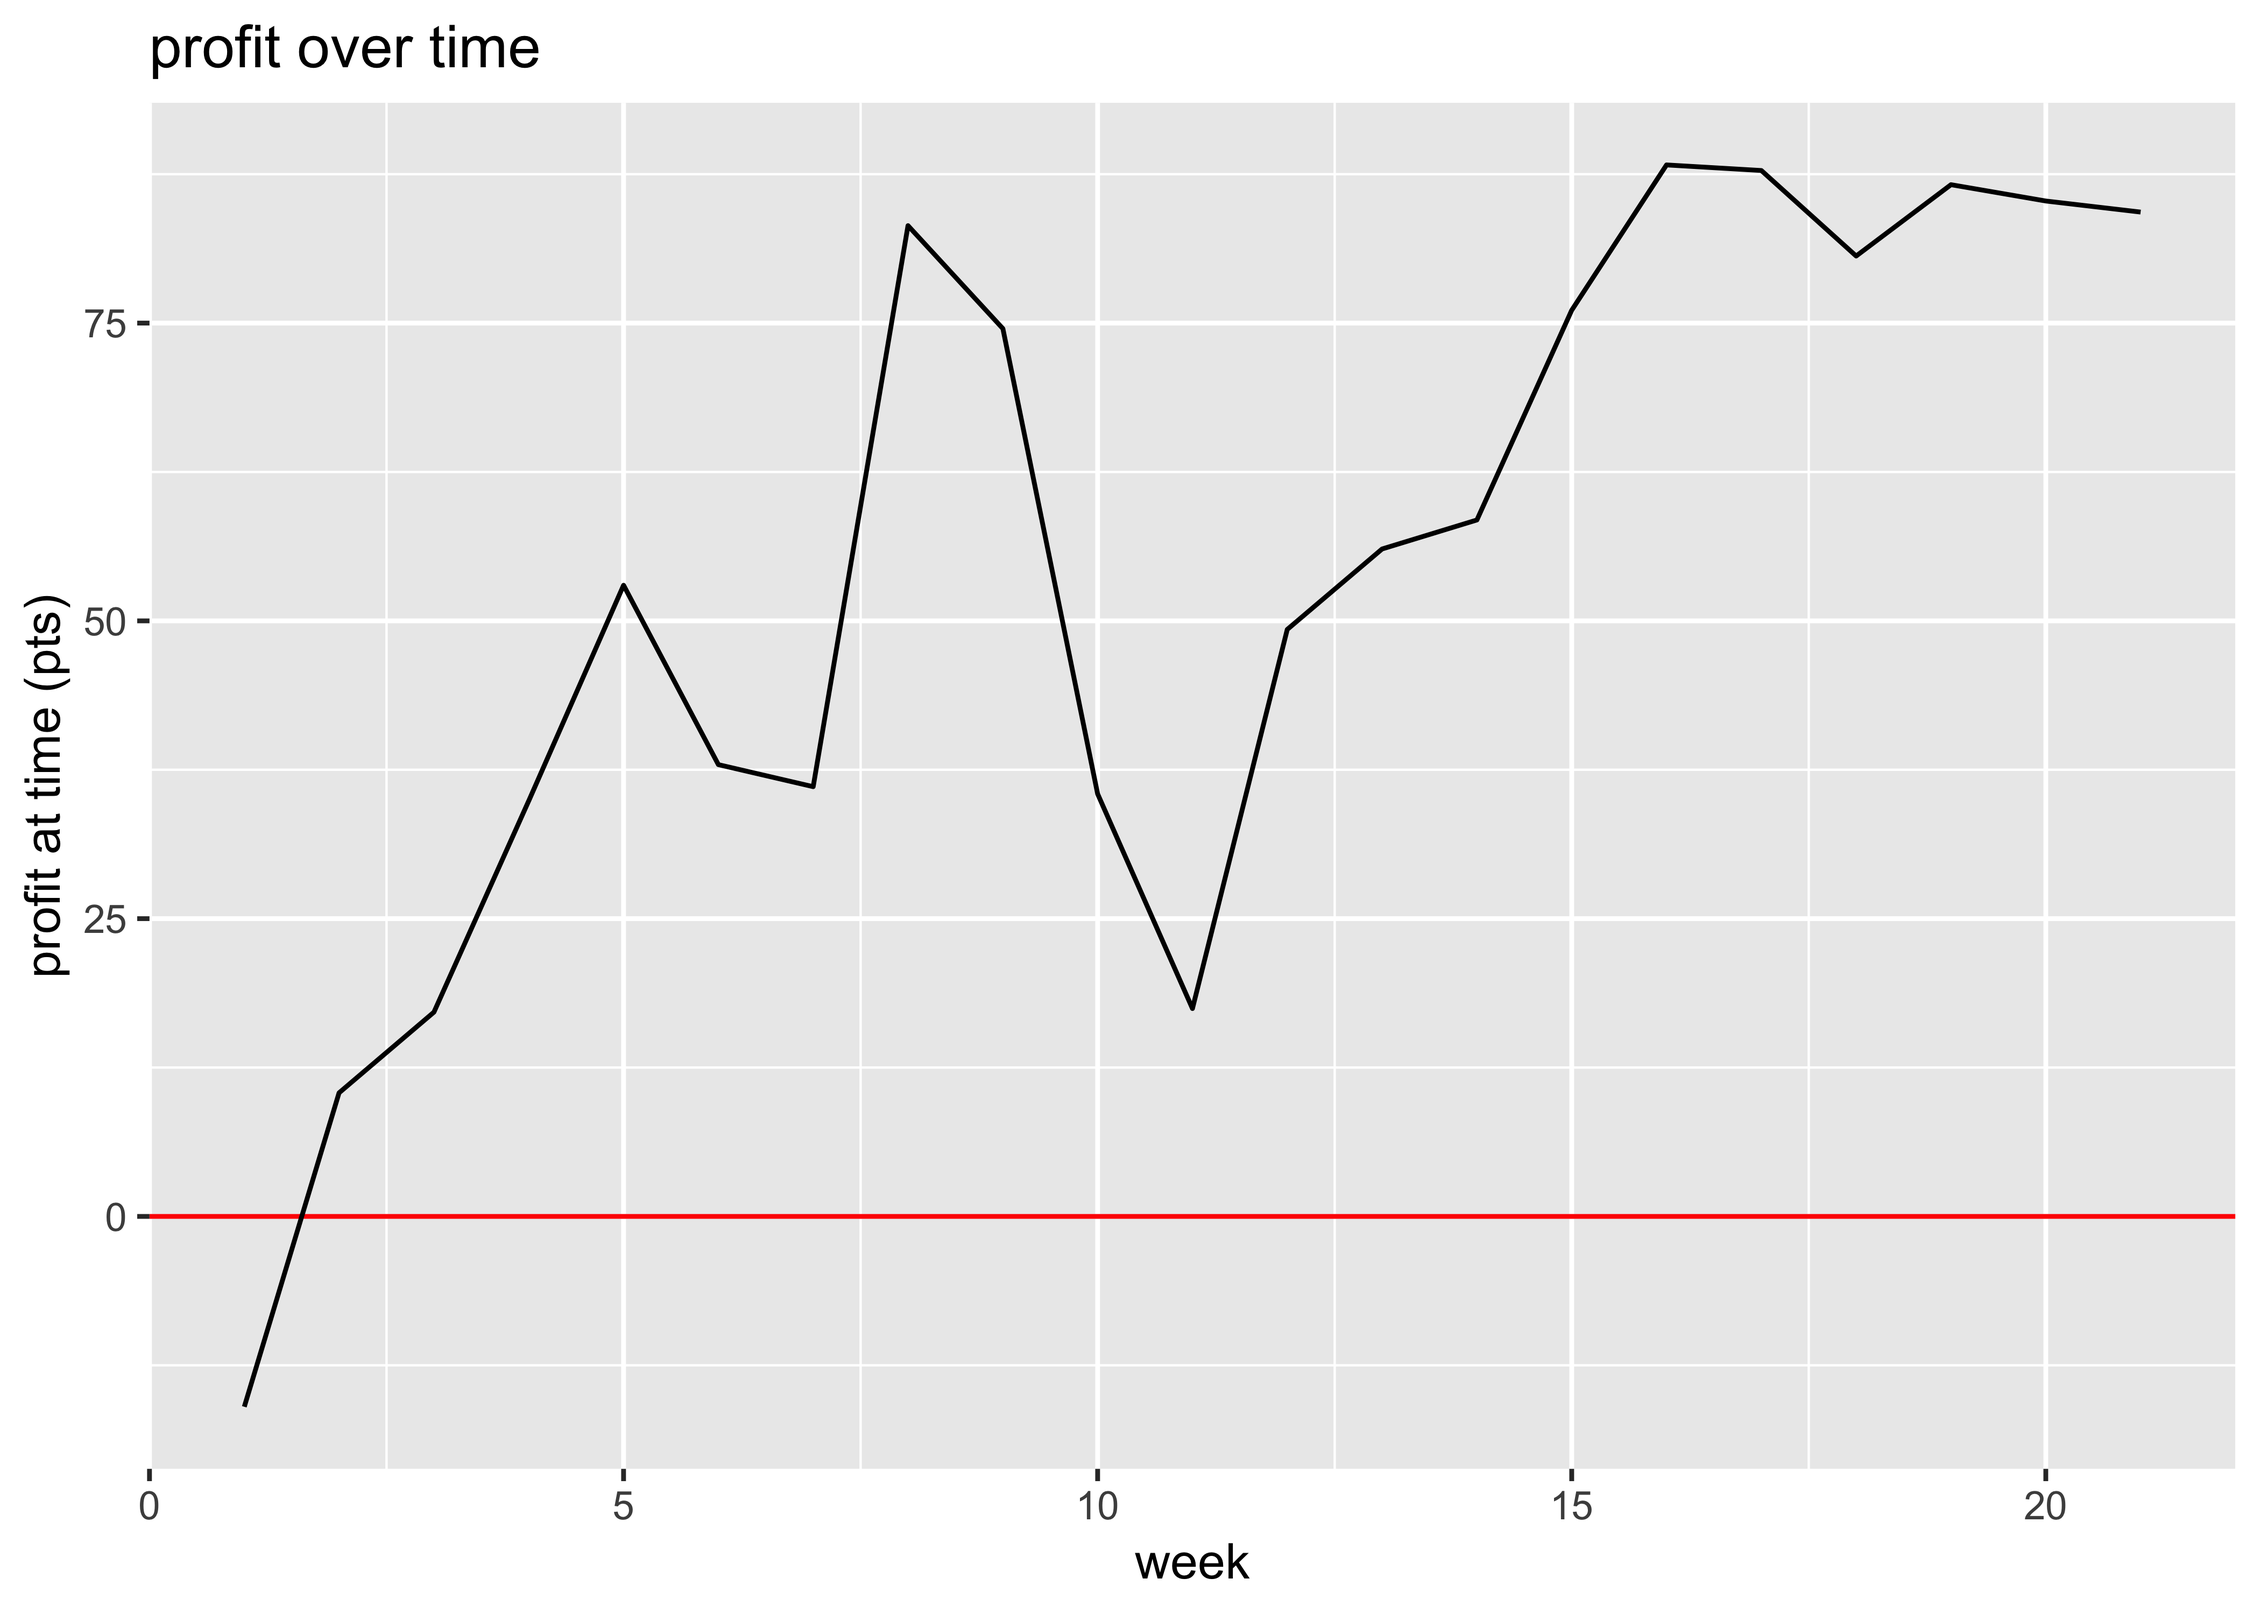
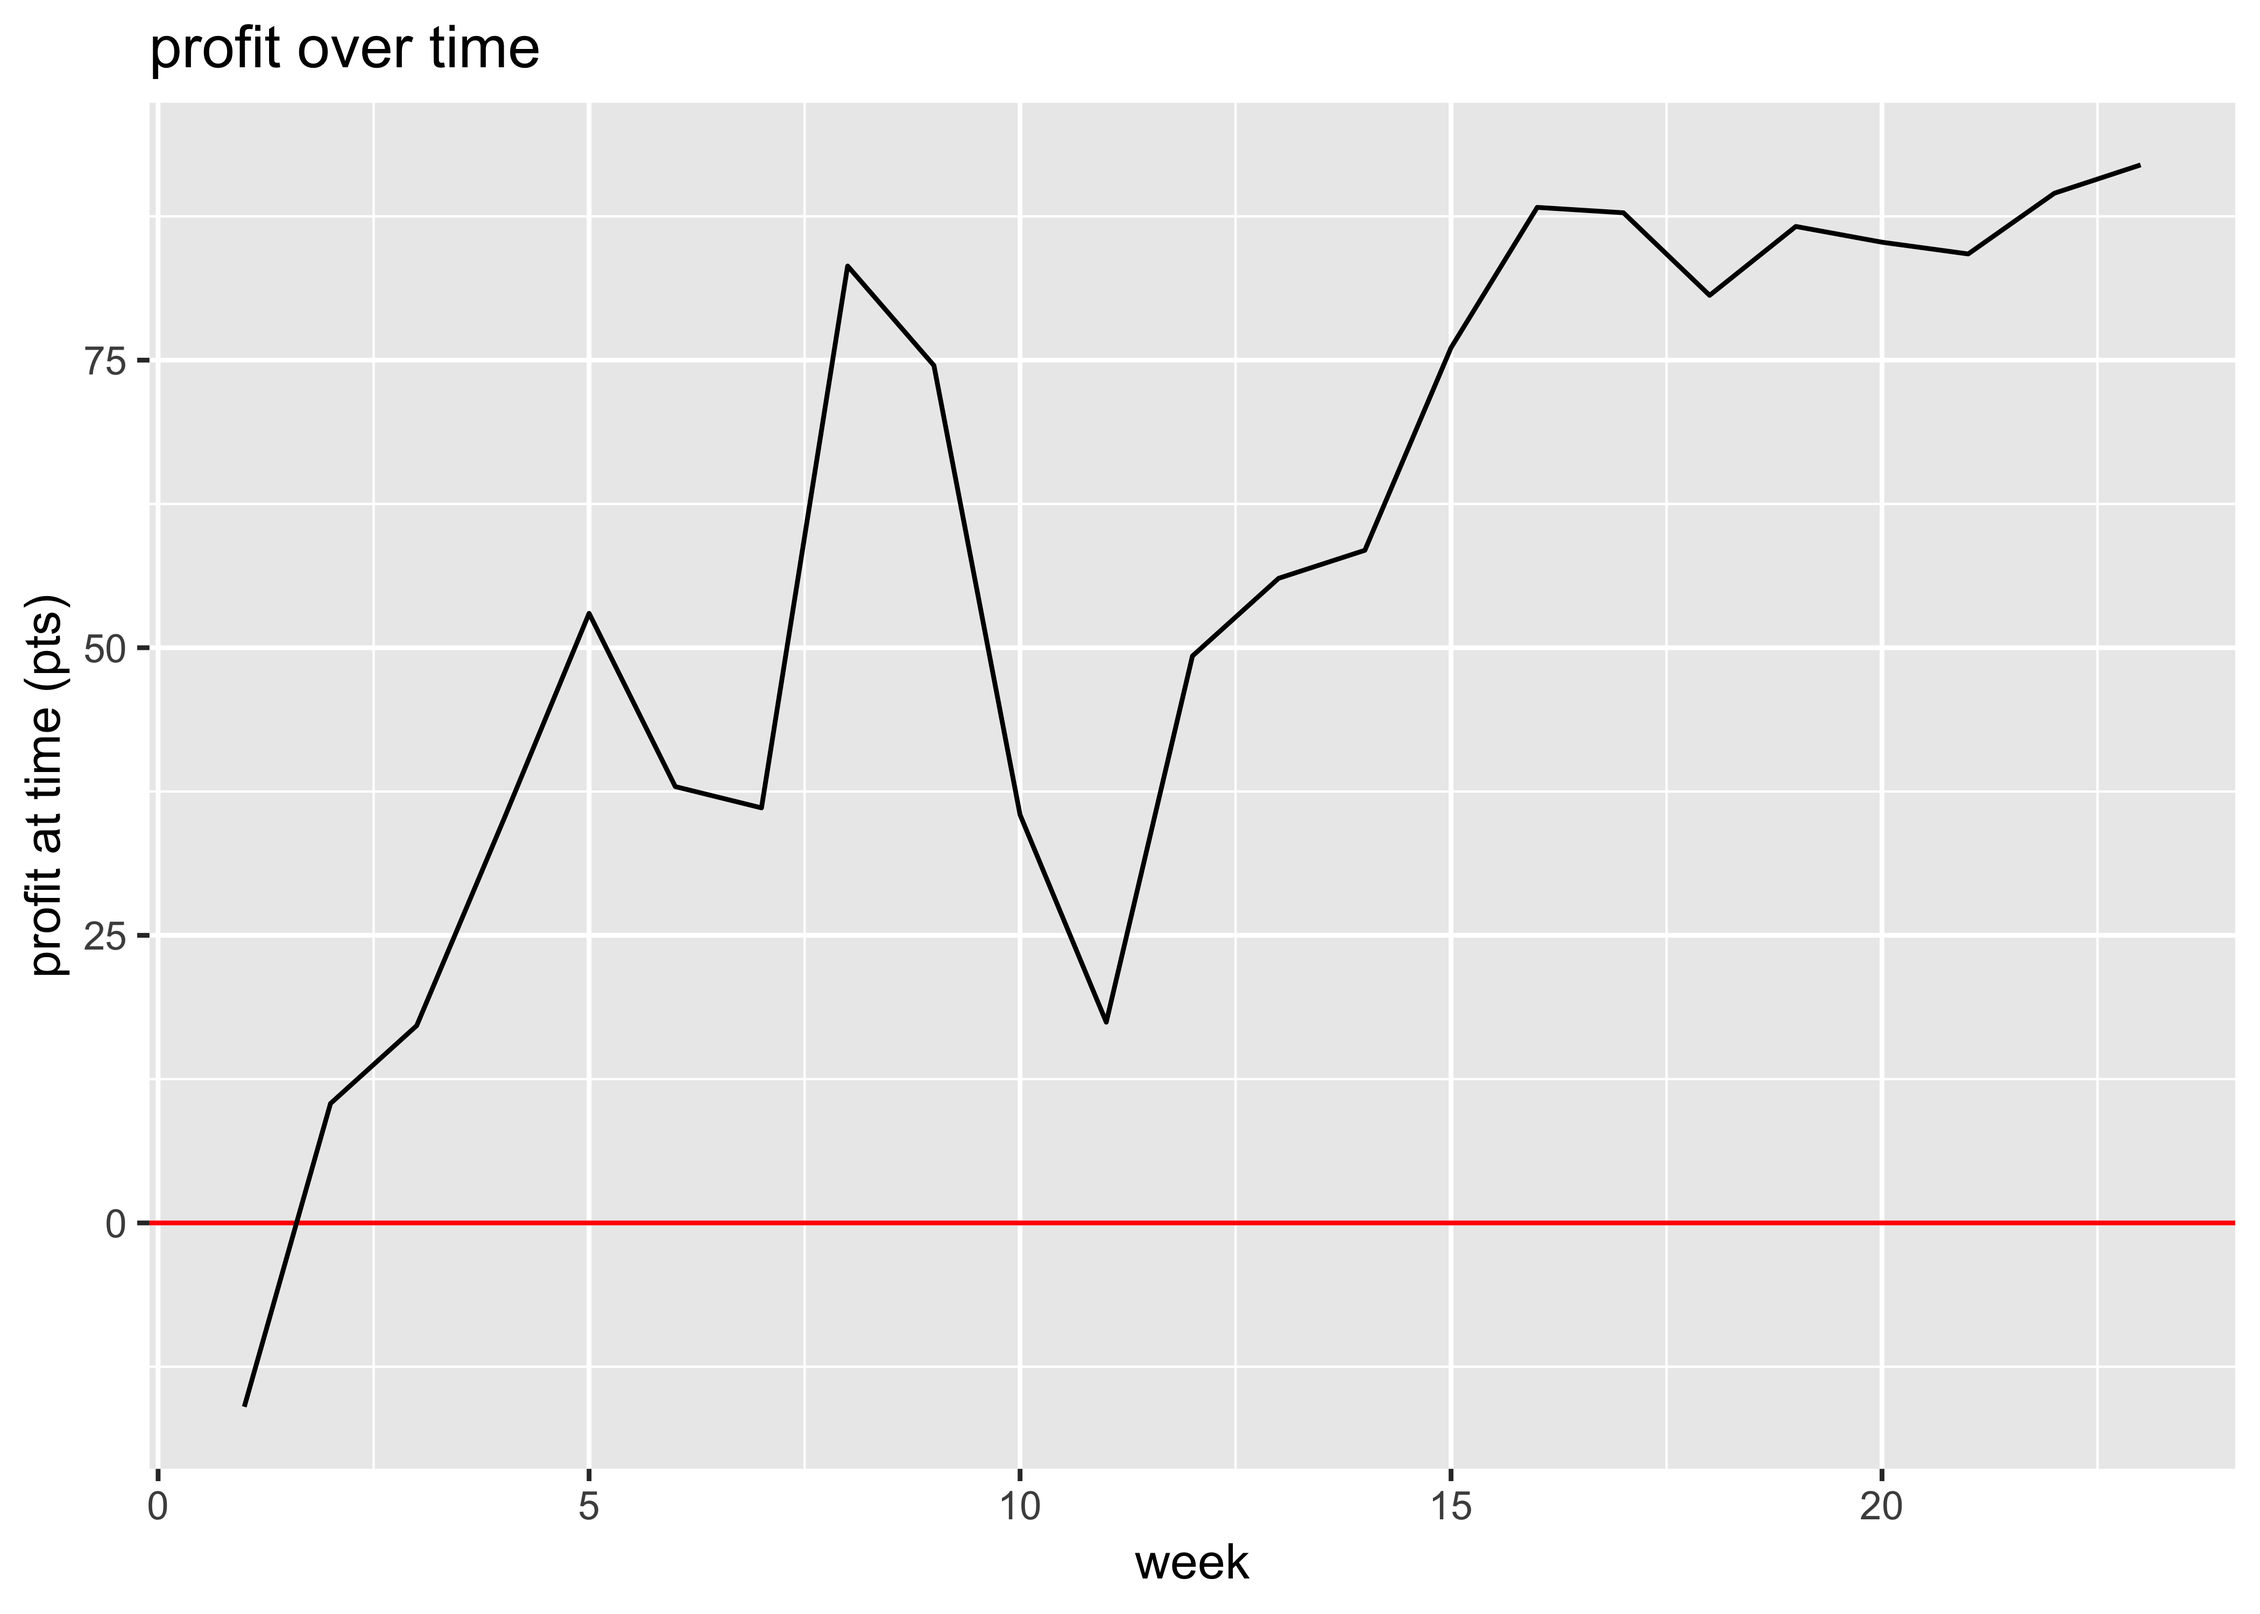
update.

diff --git a/report.md b/report.md
@@ -1,6 +1,6 @@
 report
 ================
-2018-09-14
+2018-09-26
 
 # Profit over time
 
@@ -10,12 +10,12 @@ report
 
 # ROI and ROC
 
-We put in €9000 and we’ve made a profit of €3,891 on the bets. However,
-we’ve paid two subscriptions of £600 which amounts to €1,346 so our net
-profit is €2,545. That’s a return on capital of 28.28%.
+We put in €9000 and we’ve made a profit of €3,970 on the bets. However,
+we’ve paid two subscriptions of £600 which amounts to €1,341 so our net
+profit is €2,629. That’s a return on capital of 29.21%.
 
-We have wagered a total of €43,651 and made a betting profit of €3,891,
-which gives us a betting ROI of 8.91%.
+We have wagered a total of €46,210 and made a betting profit of €3,970,
+which gives us a betting ROI of 8.59%.
 
 # Have any bookies been riddled?
 
@@ -23,57 +23,53 @@ which gives us a betting ROI of 8.91%.
 | :----------- | :------ | :------ | :------ |
 | Bet365       | 0       | \+36.46 | \+36.46 |
 | Paddy Power  | \+37.38 | \-8.17  | \+29.21 |
-| William Hill | \+25.68 | \-2.53  | \+23.15 |
-| Unibet       | \+5.79  | \+15.83 | \+21.62 |
-| Betfred      | \+6.2   | \+7.92  | \+14.12 |
+| Betfred      | \+6.2   | \+15.02 | \+21.22 |
+| William Hill | \+22.88 | \-2.53  | \+20.35 |
+| Unibet       | \+3.99  | \+15.83 | \+19.82 |
 | Coral        | \+14.11 | 0       | \+14.11 |
-| Matchbook    | \+12.11 | \+1.75  | \+13.86 |
+| Matchbook    | \+11.91 | \+1.75  | \+13.66 |
+| LC Matchbook | 0       | \+10.26 | \+10.26 |
 | SportingBet  | 0       | \+10.01 | \+10.01 |
-| 188Bet       | \+4.58  | \-1.11  | \+3.47  |
 | JuJu         | \+1.06  | 0       | \+1.06  |
-| LC Matchbook | 0       | \+1.03  | \+1.03  |
-| 188bet       | 0       | \-0.27  | \-0.27  |
 | Betway       | \-0.32  | 0       | \-0.32  |
 | SkyBet       | 0       | \-0.59  | \-0.59  |
 | Marathon     | 0       | \-0.78  | \-0.78  |
+| 188Bet       | \+0.58  | \-1.38  | \-0.8   |
 | SunBets      | \-3.9   | \+2.73  | \-1.17  |
-| SportsPesa   | 0       | \-1.78  | \-1.78  |
-| 888sport     | 0       | \-2.14  | \-2.14  |
-| 888Sport     | 0       | \-2.47  | \-2.47  |
-| SportPesa    | 0       | \-2.57  | \-2.57  |
 | BetVictor    | 0       | \-2.89  | \-2.89  |
-| 188 Bet      | \-4     | 0       | \-4     |
-| Boylesports  | \-4.87  | 0       | \-4.87  |
+| SportsPesa   | 0       | \-4.55  | \-4.55  |
+| 888Sport     | 0       | \-4.63  | \-4.63  |
 | 10Bet        | 0       | \-4.89  | \-4.89  |
-| BetStars     | 0       | \-6.98  | \-6.98  |
-| Black Type   | 0       | \-7.23  | \-7.23  |
-| Betfair SB   | \-14.71 | \-1.95  | \-16.66 |
+| Boylesports  | \-8.17  | 0       | \-8.17  |
+| BetStars     | 0       | \-8.3   | \-8.3   |
+| Black Type   | 0       | \-10.63 | \-10.63 |
 | Ladbrokes    | 0       | \-18    | \-18    |
+| Betfair SB   | \-14.71 | \-3.7   | \-18.41 |
 
 bookie profits (pts)
 
 # Minimum acceptable odds
 
-We’ve had winnings of 735 points and losses of 645 points, so even if
-our odds were only a fraction 645 / 735 = 0.88 of what we actually got,
+We’ve had winnings of 762 points and losses of 670 points, so even if
+our odds were only a fraction 670 / 762 = 0.88 of what we actually got,
 we’d still be breaking even.
 
 # Winners and losers
 
-Here’s a count of the number of winners, losers, places and non-runners
-we’ve bet on.
+Here’s a count of the number of winners, losers, and places we’ve had.
 
 | result         |   n | percent |
 | :------------- | --: | :------ |
-| Win only Lose  | 256 | 64%     |
-| Win only Win   |  76 | 19%     |
-| Each way Lose  |  55 | 14%     |
+| Win only Lose  | 268 | 63%     |
+| Win only Win   |  79 | 19%     |
+| Each way Lose  |  57 | 13%     |
 | Each way Place |   9 | 2%      |
 | Each way Win   |   6 | 1%      |
+| Win only NA    |   5 | 1%      |
 
 # Win only vs each way
 
-  - We’ve made 306 *win only* bets, on which we’ve made a profit of
-    €5,411.
-  - We’ve made 64 *each way* bets, on which we’ve made a profit of
-    €-1,520.
+  - We’ve made 325 *win only* bets, on which we’ve made a profit of
+    €5,796.
+  - We’ve made 67 *each way* bets, on which we’ve made a profit of
+    €-1,827.
